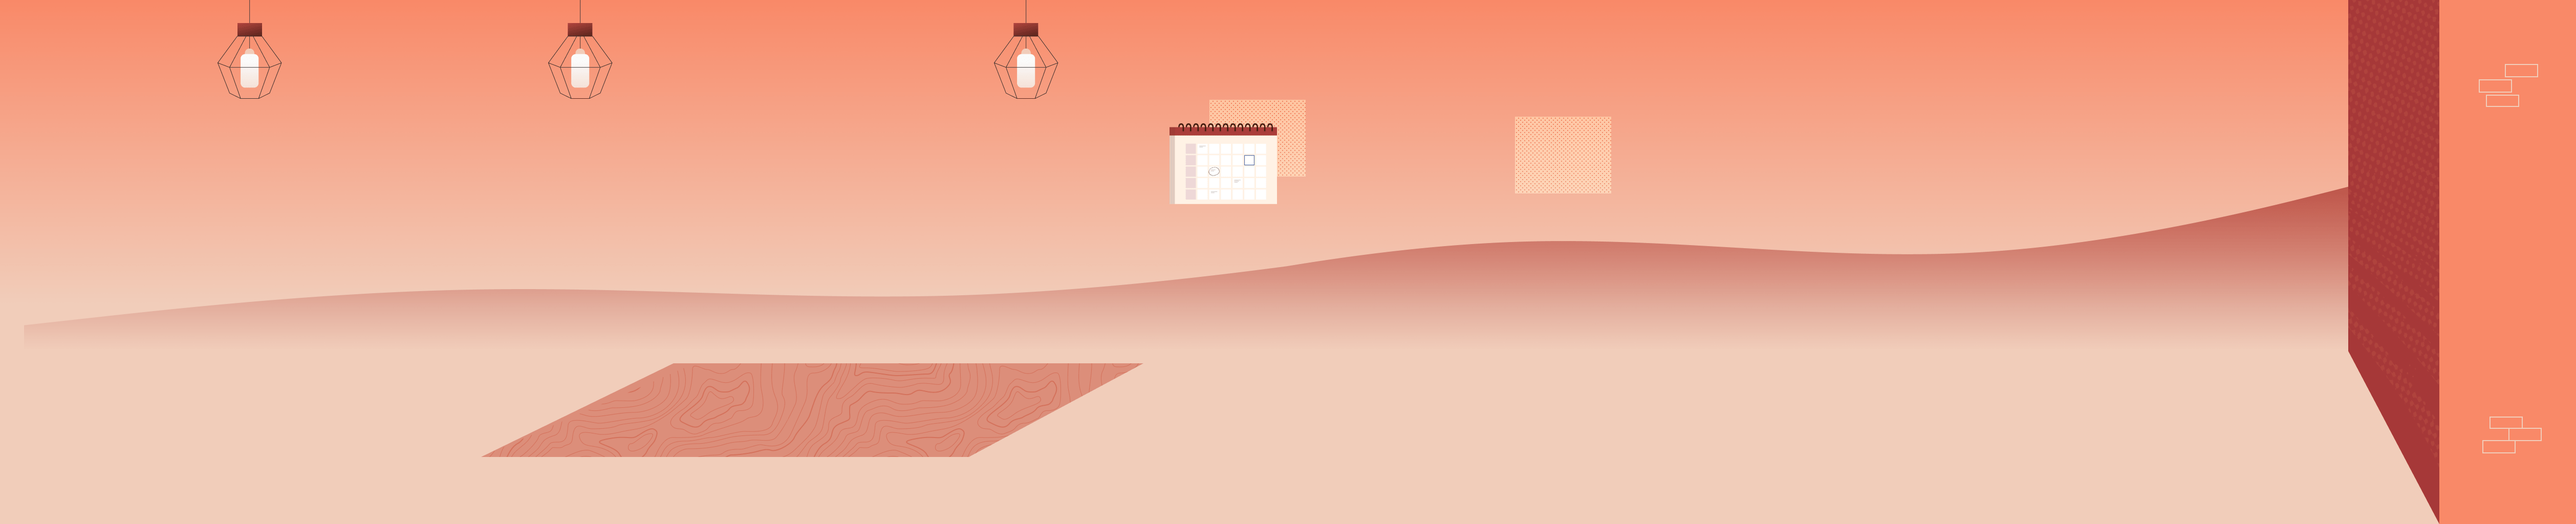
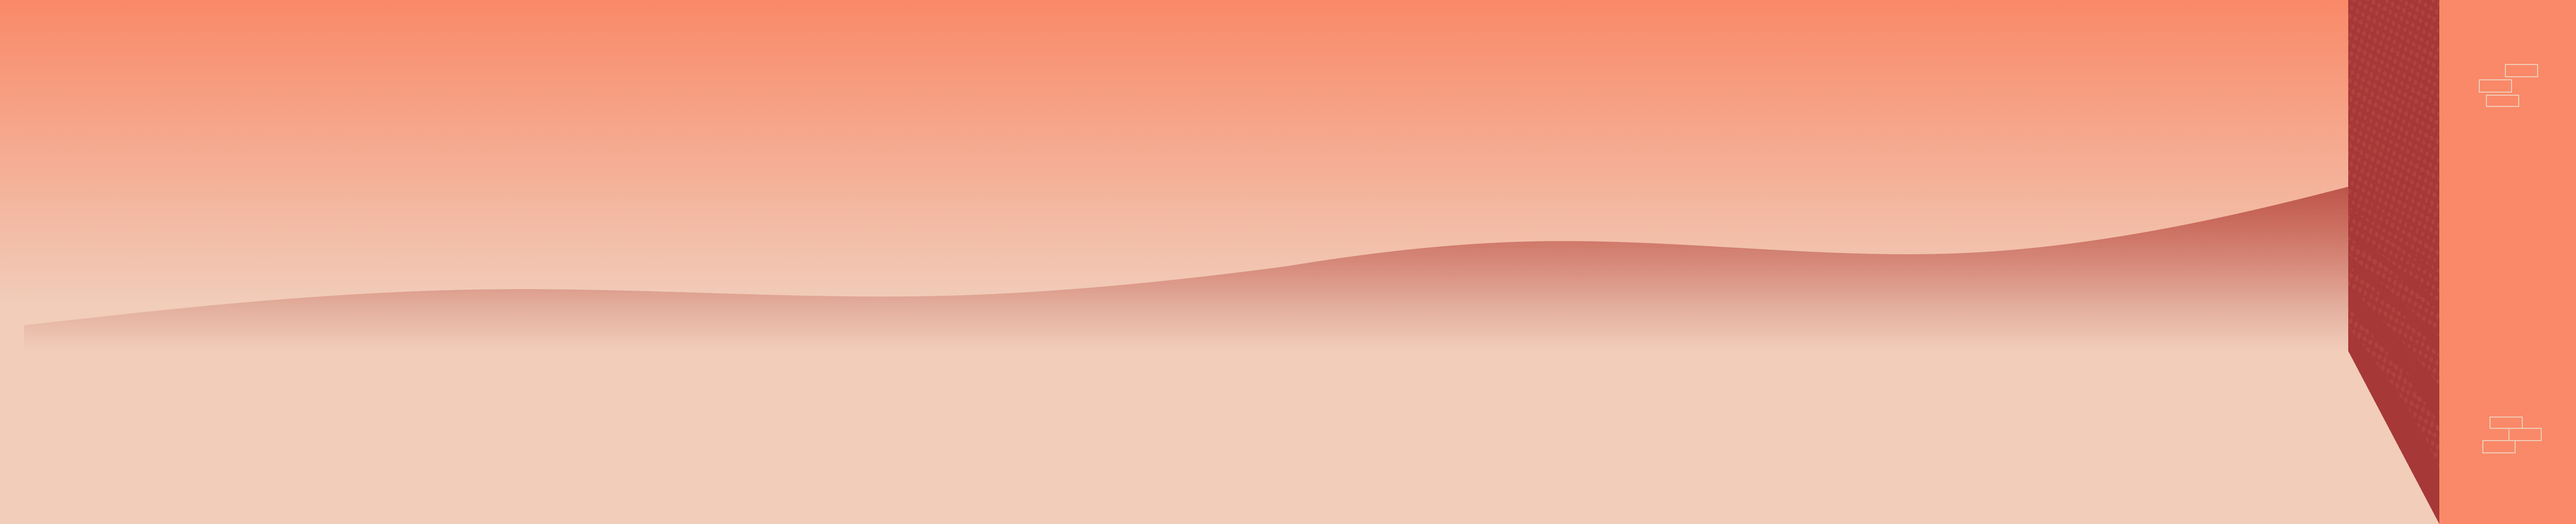
chapter1 img for parallax

diff --git a/components/Chapter1.vue b/components/Chapter1.vue
@@ -7,7 +7,7 @@
   >
     <div class="b--ss-a">
       <div class="b--ss-a__ft-items">
-        <img v-lazy="require(`@/assets/img/chapter-1/front.png`)" alt="front" ref="parallax-1-ft" />
+        <img v-lazy="require(`@/assets/img/chapter-1/front-parallax.png`)" alt="front" ref="parallax-1-ft" />
       </div>
       <div class="b--ss-a__content">
         <!-- Intro Story -->
@@ -124,11 +124,16 @@
       </div>
       <div class="b--ss-a__bg-items">
         <img
-          class="b--ss-a__bg-items__artwork"
+          class="b--ss-a__bg-items__back"
           @load="handleLoad"
           @error="handleLoad"
           src="@/assets/img/chapter-1/back.png"
           alt="back"
+        />
+        <img
+          class="b--ss-a__bg-items__parallax"
+          v-lazy="require(`@/assets/img/chapter-1/back-parallax.png`)"
+          alt="back parallax"
         />
       </div>
     </div>
